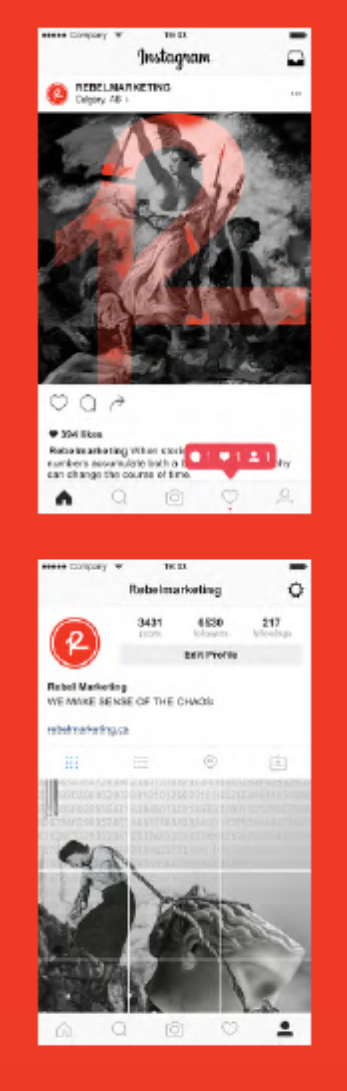
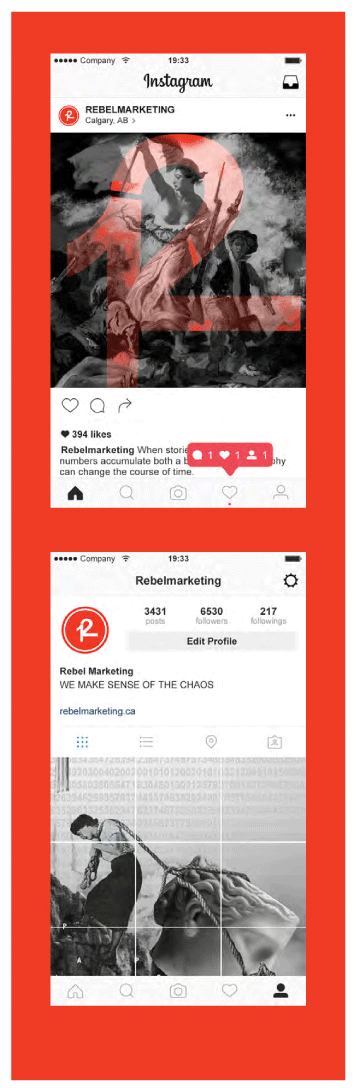
added responsivness to contact page. added updated images to rebel but still need a fix

diff --git a/src/components/contactPage/responsiveContact.css b/src/components/contactPage/responsiveContact.css
@@ -1,0 +1,45 @@
+@media (max-width: 860px) {
+    .contactHeading {
+        display: none;
+    }
+    
+    .enquiries {
+        font-size: 33px;
+        line-height: 33px;
+        align-self: center;
+        
+    }
+
+    .emailInfo {
+        font-size: 20px;
+        line-height: 20px;
+    }
+
+    .addressDetails {
+        grid-column: 2 / span 3;
+        grid-row: 1 / span 2;
+        align-self: center;
+        font-size: 27px;
+        line-height: 27px;
+        margin-top: -80px;
+    }
+    
+    .map {
+        align-self: end;
+    }
+}
+
+@media (max-width: 500px) {
+    .enquiries, .addressDetails {
+        grid-column: 1 / span 3;
+        margin-left: 20px;
+        justify-self: start;
+    }
+
+    .addressDetails {
+        font-size: 23px;
+        line-height: 23px;
+    }
+
+
+}

diff --git a/src/App.js b/src/App.js
@@ -104,9 +104,9 @@ class App extends React.Component {
           }
 
         </div>
-        <div className='sandwichContainer'>
+        <div className='sandwichContainer' onClick={this.sandwichMenu}>
           <div className={menuClass}>
-              <p id='sandwichMenuExit' onClick={this.sandwichMenu}>x</p>
+              {/* <p id='sandwichMenuExit' onClick={this.sandwichMenu}>x</p> */}
               <h4 id='sandwichSarah'>Sarah</h4><br/>
               <h4 id='sandwichAlonso'>Alonso</h4>
               <h4 id='sandwichDesign'>Design</h4>

diff --git a/src/components/contactPage/contact.css b/src/components/contactPage/contact.css
@@ -24,7 +24,8 @@
 .enquiries, .emailInfo {
     color: black;
     font-size: 53px;
-    line-height: 53px;
+    font-size: 4.140625VW;
+    line-height: 4.140625VW;
     font-family: ChapLight;
     grid-column: 2 / span 3;
     grid-row: 1;
@@ -41,7 +42,8 @@
     color: black;
     font-family: Cerabasic;
     font-size: 42px;
-    line-height: 42px;
+    font-size: 3.28125VW;
+    line-height: 3.28125VW;
     z-index: 1;
 }
 

diff --git a/src/components/contactPage/Contact.js b/src/components/contactPage/Contact.js
@@ -17,7 +17,7 @@ class Contact extends React.Component {
                     </h2>
                     <p className='addressDetails'>
                         STUDIO ADDRESS<br/>
-                        U - 101 #342 15 AVE. SW<br/>
+                        U - 101 #342 15 AVE SW<br/>
                         CALGARY, AB<br/>
                         CANADA, T2R 0P9<br />
                     </p>

diff --git a/src/components/sandwichComp/sandwichMenu.css b/src/components/sandwichComp/sandwichMenu.css
@@ -15,7 +15,7 @@
     transform: translateX(-100%);
     transition: transform 0.6s ease-out;
     z-index: 10;
-    border-left: 1px solid #D9D9D9;
+    /* border-left: 1px solid #D9D9D9; */
 }
 
 .sandwichComp.slider {
